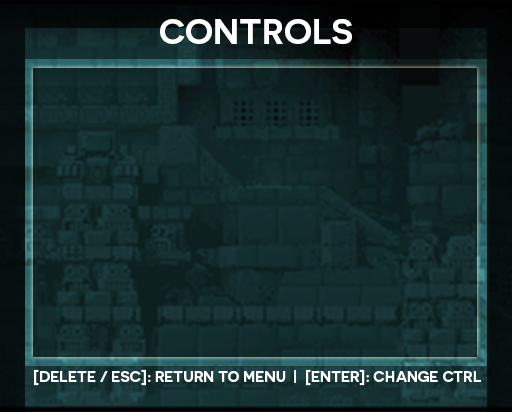
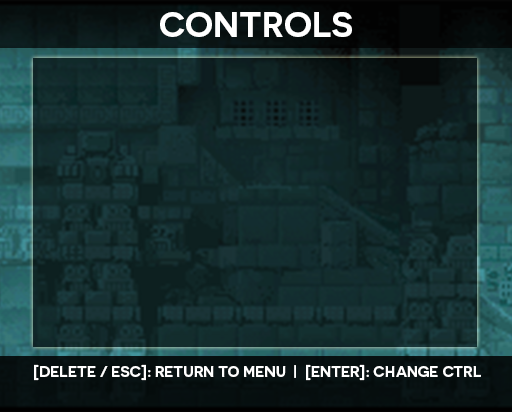
Really crispified the treasure img

Changed region(s): [[0.0, 0.0291, 1.0, 0.9903]]

diff --git a/TripleT/TripleTWindow.java b/TripleT/TripleTWindow.java
@@ -104,13 +104,10 @@ public class TripleTWindow {
         GameState.minigameMPanel.setKeyBindings();
         GameState.creditsPanel.setKeyBindings();
         GameState.dodgePausePanel.setKeyBindings();
-        GameState.cutsceneMPanel.setKeyBindings();
-        GameState.optionMPanel.setKeyBindings();
         
         // Level panels
         GameState.level1.setKeyBindings();
         GameState.level2.setKeyBindings();
-        GameState.smashPanel.setKeyBindings();
     }
     
     /**
@@ -124,13 +121,10 @@ public class TripleTWindow {
         GameState.minigameMPanel.updateKeyBindings(oldKey, newKey, shouldRemove);
         GameState.creditsPanel.updateKeyBindings(oldKey, newKey, shouldRemove);
         GameState.dodgePausePanel.updateKeyBindings(oldKey, newKey, shouldRemove);
-        GameState.cutsceneMPanel.updateKeyBindings(oldKey, newKey, shouldRemove);
-        GameState.optionMPanel.updateKeyBindings(oldKey, newKey, shouldRemove);
         
         // Level panels
         GameState.level1.updateKeyBindings(oldKey, newKey, shouldRemove);
         GameState.level2.updateKeyBindings(oldKey, newKey, shouldRemove);
-        GameState.smashPanel.updateKeyBindings(oldKey, newKey, shouldRemove);
     }
     
     /**
@@ -144,13 +138,10 @@ public class TripleTWindow {
         GameState.minigameMPanel.updateKeyBindings(oldKey, newKey, oldActions.get(2), shouldRemove);
         GameState.creditsPanel.updateKeyBindings(oldKey, newKey, oldActions.get(3), shouldRemove);
         GameState.dodgePausePanel.updateKeyBindings(oldKey, newKey, oldActions.get(4), shouldRemove);
-        GameState.cutsceneMPanel.updateKeyBindings(oldKey, newKey, oldActions.get(5), shouldRemove);
-        GameState.optionMPanel.updateKeyBindings(oldKey, newKey, oldActions.get(6), shouldRemove);
         
         // Level panels
-        GameState.level1.updateKeyBindings(oldKey, newKey, oldActions.get(7), shouldRemove);
-        GameState.level2.updateKeyBindings(oldKey, newKey, oldActions.get(8), shouldRemove);
-        GameState.smashPanel.updateKeyBindings(oldKey, newKey, oldActions.get(9), shouldRemove);
+        GameState.level1.updateKeyBindings(oldKey, newKey, oldActions.get(5), shouldRemove);
+        GameState.level2.updateKeyBindings(oldKey, newKey, oldActions.get(6), shouldRemove);
     }
     
     /**
@@ -169,13 +160,10 @@ public class TripleTWindow {
         actions.add((String) GameState.minigameMPanel.getInputMap().get(key));
         actions.add((String) GameState.creditsPanel.getInputMap().get(key));
         actions.add((String) GameState.dodgePausePanel.getInputMap().get(key));
-        actions.add((String) GameState.cutsceneMPanel.getInputMap().get(key));
-        actions.add((String) GameState.optionMPanel.getInputMap().get(key));
         
         // Level panels
         actions.add((String) GameState.level1.getInputMap().get(key));
         actions.add((String) GameState.level2.getInputMap().get(key));
-        actions.add((String) GameState.smashPanel.getInputMap().get(key));
         
         return actions;
     }

diff --git a/TripleT/ControlMenuPanel.java b/TripleT/ControlMenuPanel.java
@@ -5,6 +5,7 @@ import java.awt.Font;
 import java.awt.Color;
 import java.awt.Graphics;
 import java.awt.Graphics2D;
+import java.awt.RenderingHints;
 import java.awt.event.KeyEvent;
 import java.awt.event.KeyAdapter;
 import javax.swing.KeyStroke;
@@ -20,7 +21,7 @@ public class ControlMenuPanel extends EscapableMenuPanel {
     private static final Image MENU_IMG = Images.get("controlsMenu");
     private static final Font NOVECENTO_20 = new Font("Novecento sans wide", Font.PLAIN, 20);
     private static final Font NOVECENTO_17 = new Font("Novecento sans wide", Font.PLAIN, 17);
-    private static final int NAME_X = 146, KEY_X = 346, BASE_Y = 110, Y_OFFSET = 30, DESC_X = 84;
+    private static final int NAME_X = 146, KEY_X = 346, BASE_Y = 100, Y_OFFSET = 30, DESC_X = 84;
     private int controlSelected = -1; // the index of the control currently being changed
     private KeyAdapter kl;
     private LinkedList<ArrayList<String>> oldActions = new LinkedList<ArrayList<String>>();
@@ -62,6 +63,8 @@ public class ControlMenuPanel extends EscapableMenuPanel {
         // Set up text font and color
         g.setFont(NOVECENTO_20);
         g.setColor(Color.GRAY);
+        g2.setRenderingHint(RenderingHints.KEY_TEXT_ANTIALIASING, 
+                        RenderingHints.VALUE_TEXT_ANTIALIAS_GASP);
         
         for (int i = 0; i < keys.length; i++) {
             // Change color if the current key should be highlighted

diff --git a/TripleT/StoryMenuPanel.java b/TripleT/StoryMenuPanel.java
@@ -5,6 +5,7 @@ import java.awt.Font;
 import java.awt.Color;
 import java.awt.Graphics;
 import java.awt.Graphics2D;
+import java.awt.RenderingHints;
 import java.awt.event.ActionEvent;
 import javax.swing.AbstractAction;
 import javax.swing.KeyStroke;
@@ -34,14 +35,6 @@ public class StoryMenuPanel extends EscapableMenuPanel {
     private static final String DELETE = "delete";
     
     /**
-     * Constructor.
-     * The story menu panel makes use of the directional pad for switching options.
-     */
-    public StoryMenuPanel() {
-        usesArrows = true;
-    }
-    
-    /**
      * Paints the part of the sheet that should currently be in effect.
      * @param g the graphics object
      */
@@ -50,6 +43,10 @@ public class StoryMenuPanel extends EscapableMenuPanel {
         Graphics2D g2 = (Graphics2D) g;
         g2.drawImage(STORY_MENU_SHEET, 0, 0, TripleTWindow.SCR_WIDTH, TripleTWindow.SCR_HEIGHT, 
                 sheetOffset, 0, sheetOffset + TripleTWindow.SCR_WIDTH, TripleTWindow.SCR_HEIGHT, null);
+        
+        // Make sure that the text is antialiased
+        g2.setRenderingHint(RenderingHints.KEY_TEXT_ANTIALIASING, 
+                        RenderingHints.VALUE_TEXT_ANTIALIAS_GASP);
         
         // Add save file information
         for (int i = 0; i < saveFiles.length; i++) {

diff --git a/TripleT/PosterMenuPanel.java b/TripleT/PosterMenuPanel.java
@@ -1,0 +1,42 @@
+package TripleT;
+
+import java.awt.Graphics;
+import java.awt.Graphics2D;
+import java.awt.Image;
+import java.awt.event.KeyEvent;
+import java.awt.event.KeyAdapter;
+import javax.swing.JPanel;
+
+/**
+ * A "poster" menu panel, named because the user won't be interacting 
+ * with any of its elements. Instead, the user will read or look at the 
+ * contents of the panel, and then push ANY key to exit.
+ * 
+ * All subclasses should need to do is assign some value to BACKGROUND_IMG.
+ * @author Owen Jow
+ */
+public class PosterMenuPanel extends JPanel {
+    private KeyListener kl;
+    protected Image backgroundImg;
+    
+    public void activate() {
+        kl = new KeyListener();
+        addKeyListener(kl);
+        requestFocus();
+    }
+    
+    @Override
+    public void paintComponent(Graphics g) {
+        Graphics2D g2 = (Graphics2D) g;
+        g2.drawImage(backgroundImg, 0, 0, null);
+    }
+    
+    public class KeyListener extends KeyAdapter {
+        public void keyPressed(KeyEvent evt) {
+            // Note that this represents ANY key press!
+            removeKeyListener(kl);
+            GameState.layout.show(GameState.contentPanel, "mainMenu");
+            GameState.menuPanel.requestFocus();
+        }
+    }
+}

diff --git a/TripleT/CutsceneMenuPanel.java b/TripleT/CutsceneMenuPanel.java
@@ -1,27 +1,16 @@
 package TripleT;
 
-import java.awt.Image;
-import java.awt.Graphics;
-import java.awt.Graphics2D;
-
 /**
  * The menu for selecting between cutscenes to view.
  * There will be three cutscenes total: one will play at the beginning of each of the two worlds,
  * and the last will play at the game's conclusion.
  * @author Owen Jow
  */
-public class CutsceneMenuPanel extends EscapableMenuPanel {
-    private static final Image CUTSCENE_MENU_SHEET = Images.get("cutsceneMenu");
-    private int sheetOffset;
-    
+public class CutsceneMenuPanel extends PosterMenuPanel {
     /**
-     * Paints the part of the sheet that should currently be in effect.
-     * @param g the graphics object
+     * Just your standard image-assigning constructor.
      */
-    @Override
-    public void paintComponent(Graphics g) {
-        Graphics2D g2 = (Graphics2D) g;
-        g2.drawImage(CUTSCENE_MENU_SHEET, 0, 0, TripleTWindow.SCR_WIDTH, TripleTWindow.SCR_HEIGHT, 
-                sheetOffset, 0, sheetOffset + TripleTWindow.SCR_WIDTH, TripleTWindow.SCR_HEIGHT, null);
+    public CutsceneMenuPanel() {
+        backgroundImg = Images.get("cutsceneMenu");
     }
 }

diff --git a/TripleT/EscapableMenuPanel.java b/TripleT/EscapableMenuPanel.java
@@ -10,7 +10,6 @@ import javax.swing.KeyStroke;
  */
 public class EscapableMenuPanel extends MenuPanel {
     protected static final String GO_BACK = "go back";
-    protected boolean usesArrows; // (whether or not the panel has directional controls)
     
     /**
      * Activates the panel by resetting the menu and requesting focus.
@@ -27,14 +26,6 @@ public class EscapableMenuPanel extends MenuPanel {
         super.setKeyBindings();
         getInputMap().put(KeyStroke.getKeyStroke("ESCAPE"), GO_BACK);
         getActionMap().put(GO_BACK, new EscapeAction());
-        
-        if (!usesArrows) {
-            // Remove mappings for UP / LEFT / DOWN / RIGHT
-            getInputMap().put(KeyStroke.getKeyStroke(GameState.pInfo.upKey, 0), "none");
-            getInputMap().put(KeyStroke.getKeyStroke(GameState.pInfo.leftKey, 0), "none");
-            getInputMap().put(KeyStroke.getKeyStroke(GameState.pInfo.downKey, 0), "none");
-            getInputMap().put(KeyStroke.getKeyStroke(GameState.pInfo.rightKey, 0), "none");
-        }
     }
     
     /**

diff --git a/TripleT/OptionMenuPanel.java b/TripleT/OptionMenuPanel.java
@@ -1,20 +1,17 @@
 package TripleT;
 
-import java.awt.Image;
-import java.awt.Graphics;
-import java.awt.Graphics2D;
-
 /**
  * A menu for toggling and choosing between game options.
  * The player should be able to change Kirby's in-game color, and adjust the music volume.
+ * 
+ * ^ Or, at least, he/she SHOULD have been able to, before I decided to cease development.
  * @author Owen Jow
  */
-public class OptionMenuPanel extends EscapableMenuPanel {
-    private static final Image OPTIONS_MENU_BG = Images.get("optionsMenu");
-    
-    @Override
-    public void paintComponent(Graphics g) {
-        Graphics2D g2 = (Graphics2D) g;
-        g2.drawImage(OPTIONS_MENU_BG, 0, 0, null);
+public class OptionMenuPanel extends PosterMenuPanel {
+    /**
+     * Constructor.
+     */
+    public OptionMenuPanel() {
+        backgroundImg = Images.get("optionsMenu");
     }
 }

diff --git a/TripleT/DodgePanel.java b/TripleT/DodgePanel.java
@@ -7,6 +7,7 @@ import java.awt.Graphics;
 import java.awt.Graphics2D;
 import java.awt.Font;
 import java.awt.Color;
+import java.awt.RenderingHints;
 import java.awt.event.ActionListener;
 import java.awt.event.ActionEvent;
 import java.awt.event.KeyEvent;
@@ -153,6 +154,10 @@ public class DodgePanel extends JPanel implements ActionListener {
         if (kirby.numLives >= 0) {
             g2.drawImage(Images.numbers[kirby.numLives], NUM_X, NUM_Y, null); // assumes 0-9 lives
         }
+        
+        // Antialiasing
+        g2.setRenderingHint(RenderingHints.KEY_TEXT_ANTIALIASING, 
+                        RenderingHints.VALUE_TEXT_ANTIALIAS_GASP);
         
         // Display score / powerup count / other relevant information
         g.setFont(new Font("Verdana", Font.BOLD, 14));

diff --git a/TripleT/SmashPanel.java b/TripleT/SmashPanel.java
@@ -1,19 +1,14 @@
 package TripleT;
 
-import java.awt.Graphics;
-import java.awt.Graphics2D;
-import java.awt.Image;
-
 /** 
  * The panel for the kirbySMASH minigame. That will never be made. :(
  * @author Owen Jow
  */
-public class SmashPanel extends EscapableMenuPanel {
-    private static final Image SMASH_BACKGROUND = Images.get("smashMessage");
-    
-    @Override
-    public void paintComponent(Graphics g) {
-        Graphics2D g2 = (Graphics2D) g;
-        g2.drawImage(SMASH_BACKGROUND, 0, 0, null);
+public class SmashPanel extends PosterMenuPanel {
+    /**
+     * Constructor. Specifies the background image to display as the kirbySMASH panel.
+     */
+    public SmashPanel() {
+        backgroundImg = Images.get("smashMessage");
     }
 }

diff --git a/TripleT/LevelPanel.java b/TripleT/LevelPanel.java
@@ -278,7 +278,7 @@ abstract class LevelPanel extends KPanel implements ActionListener {
             } else {
                 if (!kirby.isInAir()) {
                     for (Door d : doors) {
-                        if (Math.abs(d.getX(isLeft) + foreground.leftOffset - kirby.getX()) <= 2) {
+                        if (Math.abs(d.getX(isLeft) + foreground.leftOffset - kirby.getX()) <= 3) {
                             kirby.enterDoor();
                             activeDoor = d;
                             return;

diff --git a/TripleT/Images.java b/TripleT/Images.java
@@ -106,7 +106,7 @@ public class Images {
      */
     private static void initializeDodgeImages() {
         addToImages("dodgeBackground", "/images/dodgeBG.png");
-        addToImages("treasure", "/images/treasure1.png");
+        addToImages("treasure", "/images/treasure2.png");
         addToImages("lifeCount", "/images/lifeCount.png");
         addToImages("zero", "/images/zero.png");
         addToImages("one", "/images/one.png");
